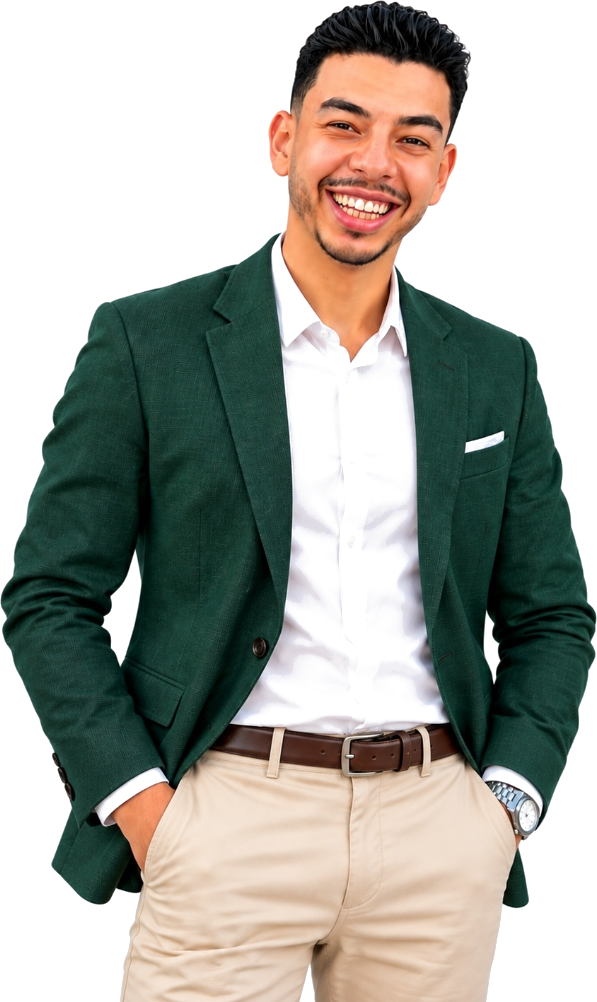
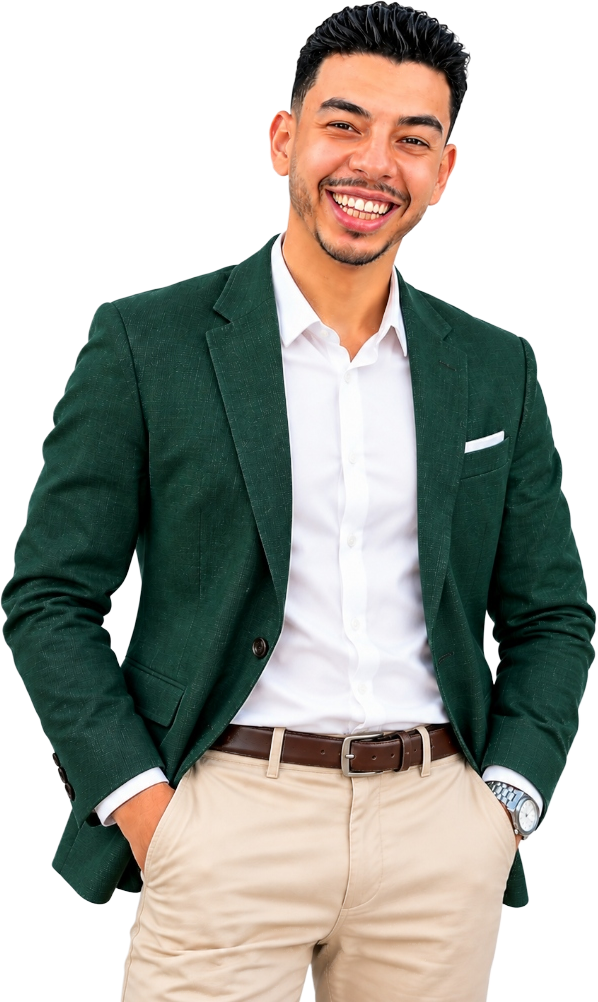
feat: refine Card 2 cutout with dual matting using Light & Dark mode photos

diff --git a/apps/web/src/components/home/FeaturesSection.tsx b/apps/web/src/components/home/FeaturesSection.tsx
@@ -42,7 +42,7 @@ export default function FeaturesSection() {
       id: 2,
       title: t('features.examsTitle', 'امتحانات تفاعلية وتقييم فوري'),
       description: t('features.examsDesc', 'اختبر مستواك بعد كل درس مع إظهار الإجابات النموذجية والتحليل الفوري لأدائك.'),
-      image: '/assets/features/feature-2-cutout.png?v=20261001_v60'
+      image: '/assets/features/feature-2-cutout.png?v=20261001_v130'
     },
     {
       id: 3,
